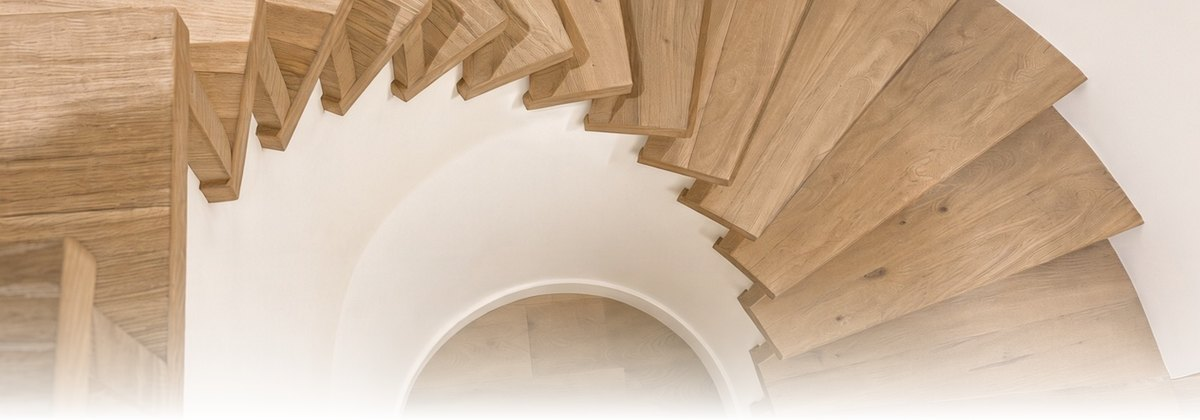
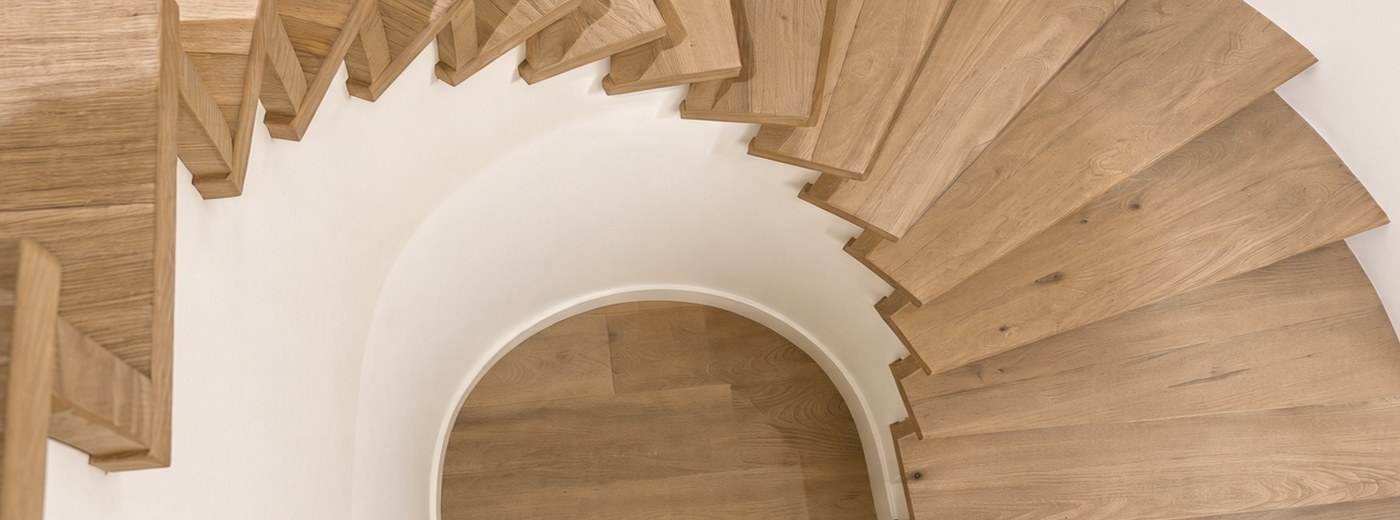
Use a plain cropped photo in the email.

diff --git a/allstar-email.html b/allstar-email.html
@@ -28,13 +28,19 @@
           </tr>
 
           <tr>
-            <td style="padding:6px 0 0;line-height:0;font-size:0;">
-              <img src="https://www.all-star-flooring.com/images/email-work.jpg" width="600" alt="Curved oak staircase" style="display:block;width:100%;max-width:600px;height:auto;border:0;" />
+            <td style="padding:0 32px;">
+              <div style="height:1px;background:#e4ddd2;line-height:1px;font-size:1px;">&nbsp;</div>
             </td>
           </tr>
 
           <tr>
-            <td style="padding:4px 32px 8px;font-family:Arial,Helvetica,sans-serif;font-size:16px;line-height:1.6;color:#1c1c1c;">
+            <td style="padding:20px 32px 0;">
+              <img src="https://www.all-star-flooring.com/images/email-work.jpg" width="536" alt="Oak staircase" style="display:block;width:100%;max-width:536px;height:auto;border:0;" />
+            </td>
+          </tr>
+
+          <tr>
+            <td style="padding:22px 32px 8px;font-family:Arial,Helvetica,sans-serif;font-size:16px;line-height:1.6;color:#1c1c1c;">
               <p style="margin:0 0 16px;">Hi,</p>
               <p style="margin:0 0 16px;">Write your note here. This is a normal email, so just say what you need to say.</p>
               <p style="margin:0 0 16px;">Add another paragraph if you need one.</p>
